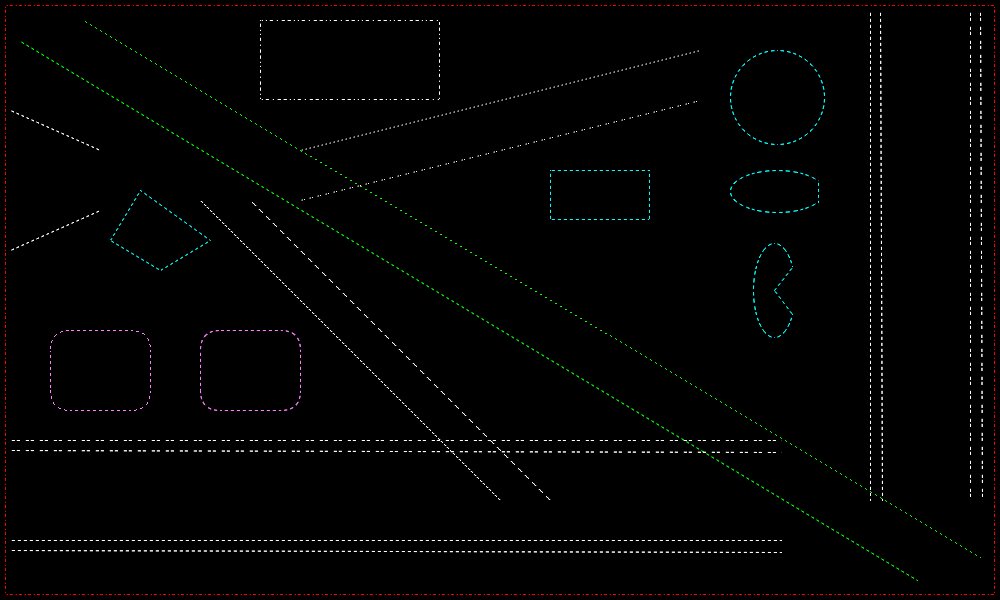
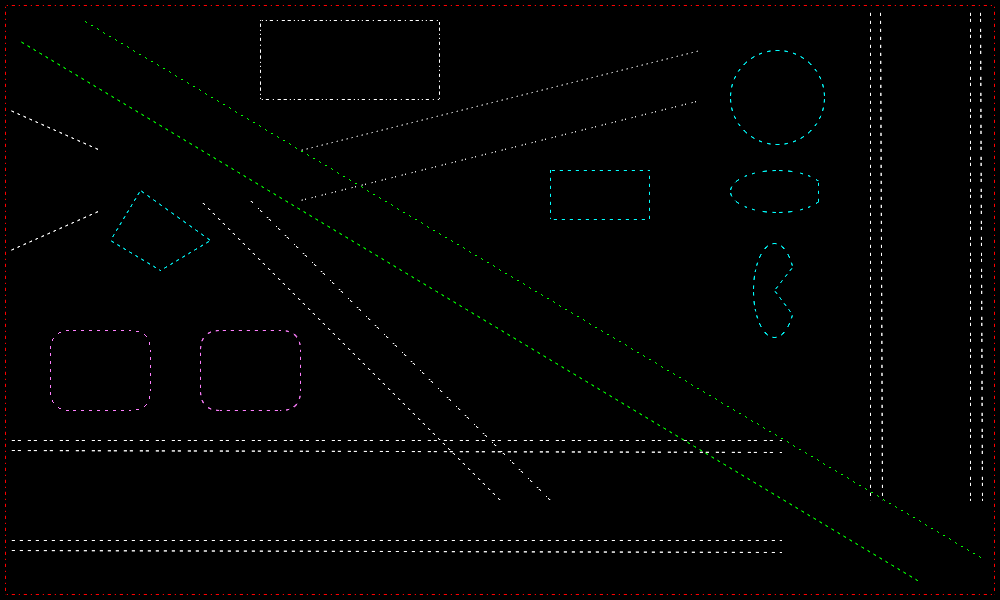
Improving built-in line patterns

diff --git a/src/Pt-Gfx/Rasterizer2.cpp b/src/Pt-Gfx/Rasterizer2.cpp
@@ -219,11 +219,11 @@ void Rasterizer2::strokeText( const Point& to, const Pt::String& text )
 void Rasterizer2::updatePenPattern()
 {
     // Predefined patterns
-    static const Pt::uint8_t patternDot       [] = { 0, 1, 0, 0                };
-    static const Pt::uint8_t patternDoubleDot [] = { 0, 1, 0, 0, 1, 0, 0, 0, 0 };
-    static const Pt::uint8_t patternDash      [] = { 0, 1, 1, 1, 0, 0                         };
-    static const Pt::uint8_t patternDoubleDash[] = { 0, 1, 1, 1, 0, 0, 1, 1, 1, 0, 0, 0, 0, 0 };
-    static const Pt::uint8_t patternDotDash   [] = { 0, 1, 0, 0, 1, 1, 1, 0, 0 };
+    static const Pt::uint8_t patternDot       [] = { 0, 1, 0, 0, 0, 0                                 };
+    static const Pt::uint8_t patternDoubleDot [] = { 0, 1, 0, 0, 0, 1, 0, 0, 0, 0, 0, 0               };
+    static const Pt::uint8_t patternDash      [] = { 0, 1, 1, 1, 0, 0, 0, 0,                          };
+    static const Pt::uint8_t patternDoubleDash[] = { 0, 1, 1, 1, 0, 0,  0, 1, 1, 1, 0, 0, 0, 0, 0, 0  };
+    static const Pt::uint8_t patternDotDash   [] = { 0, 1, 0, 0, 0, 0, 1, 1, 1, 0, 0, 0               };
 
     Pt::uint8_t patternUserDefined[32];
 
